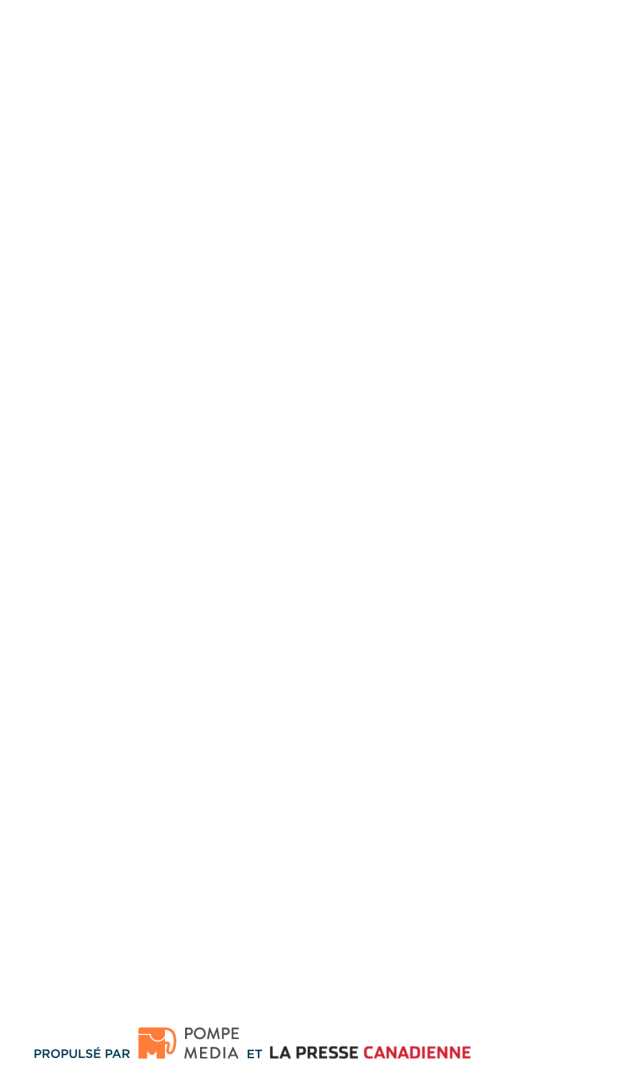
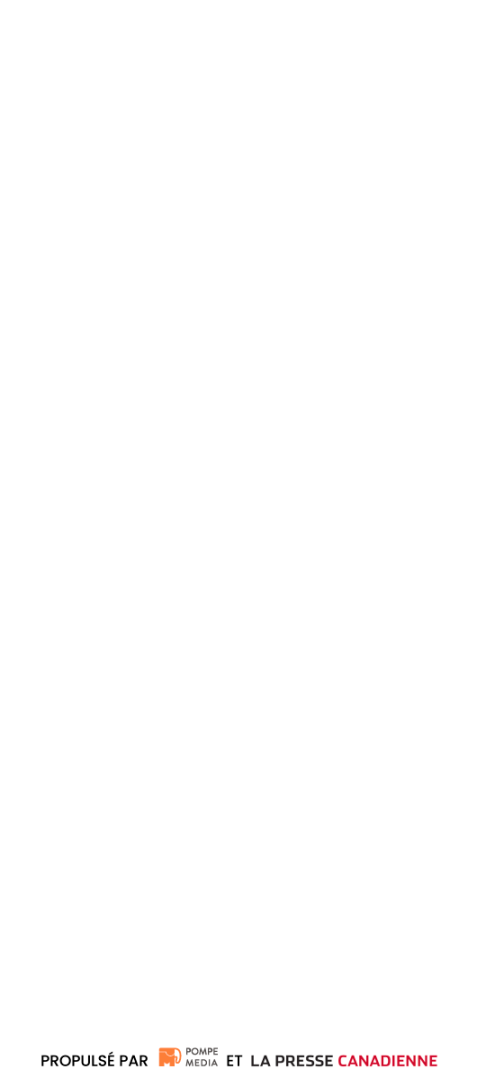
Updating PMP design

Changed region(s): [[0.0625, 0.9472, 0.9062, 1.0]]

diff --git a/src/App.js b/src/App.js
@@ -161,7 +161,7 @@ class App extends Component {
       category: category
     })
 
-    if(this.state.design.name !== 'PMP' && this.state.design.name !== 'SHD') {
+    if(this.state.design.name !== 'PMP' && this.state.design.name !== 'SHD' && this.state.design.name !== 'PHD') {
       // prepare category background url
       cache.getImage(this.state.backgrounds[this.state.category]).then(url =>
         this.setState({
@@ -184,8 +184,8 @@ class App extends Component {
           return record.media || recordAge.asHours() < 6
         })
 
-      // If the current design is FCL oor SHD, we only display records with a horizontal media
-      if (this.state.design.name === 'FCL' || this.state.design.name === 'SHD') {
+      // If the current design is FCL or SHD/PHD, we only display records with a horizontal media
+      if (this.state.design.name === 'FCL' || this.state.design.name === 'SHD' || this.state.design.name === 'PHD') {
         records = records.filter(record => record.media ? record.media_width > record.media_height : true)
       }
 
@@ -342,11 +342,11 @@ class App extends Component {
             <PMPHeadlineBar />
           }
           {
-            this.state.design.name === 'SHD' &&
+            (this.state.design.name === 'SHD' || this.state.design.name === 'PHD') &&
             <SHDHeadlineBar category={ this.state.category } />
           }
           {
-            this.state.design.name !== 'SHD' &&
+            (this.state.design.name !== 'SHD' || this.state.design.name !== 'PHP') &&
             <TimeDisplay design={ this.state.design.name }/>
           }
           <UpdateCaption

diff --git a/src/style/App.scss b/src/style/App.scss
@@ -46,7 +46,8 @@ main {
     height: 1920px;
   }
 
-  &.SHD {
+  &.SHD,
+  &.PHD {
     width: 1920px;
     height: 1080px;
 
@@ -111,7 +112,7 @@ main {
   }
 
   &.PMP {
-    width: 640px;
+    width: 480px;
     height: 1080px;
 
     background-image: url("../assets/images/PMP-Background.png");
@@ -119,23 +120,41 @@ main {
     background-position: center center;
     background-repeat: no-repeat;
 
+    background-color: #FFF;
+
     .headline-bar {
       box-sizing: border-box;
 
       position: absolute;
-      top: 550px;
-      left: 35px;
+      top: 690px;
+      left: 0px;
 
-      width: 570px;
+      width: 480px;
       height: 60px;
-      padding: 2px 8px;
+      padding: 2px 15px;
 
-      background-color: #0061a3;
+      background-color: #F38000;
 
-      font-size: 35pt;
+      font-size: 30pt;
       font-weight: 700;
       line-height: 60px;
       text-transform: uppercase;
+    }
+
+    &:before {
+      content: "";
+      display: block;
+      position: absolute;
+      left: 90px;
+      top: 45px;
+
+      width: 300px;
+      height: 150px;
+
+      background-image: url("../assets/images/onthego.dark.png");
+      background-size: contain;
+      background-position: center center;
+      background-repeat: no-repeat;
     }
   }
 }

diff --git a/src/style/scenes/_Content.scss b/src/style/scenes/_Content.scss
@@ -153,7 +153,8 @@
     }
   }
 
-  &.SHD {
+  &.SHD,
+  &.PHD {
      width: 1920px;
      height: 1080px;
 
@@ -255,17 +256,17 @@
    }
 
   &.PMP {
-    width: 570px;
-    height: 945px;
+    width: 480px;
+    height: 830px;
 
-    top: 35px;
-    left: 35px;
+    top: 250px;
+    left: 0px;
 
     transition-property: opacity;
 
     .image {
-      width: 570px;
-      height: 515px;
+      width: 480px;
+      height: 440px;
     }
 
     .ribbon-background {
@@ -273,15 +274,14 @@
     }
 
     .headline {
-
       color: #444;
 
       &.ribbon {
-        height: 345px;
-        margin: 60px 0 35px;
+        height: 280px;
+        margin: 60px 15px 0;
 
         font-size: 30pt;
-        line-height: 345px;
+        line-height: 280px;
 
         &.long-text {
           font-size: 20pt;

diff --git a/src/style/scenes/_TimeDisplay.scss b/src/style/scenes/_TimeDisplay.scss
@@ -25,12 +25,12 @@ time {
   }
 
   &.PMP {
-    top: 551px;
-    right: 43px;
+    top: 690px;
+    right: 15px;
 
     color: #FFF;
 
-    font-size: 35pt;
+    font-size: 30pt;
     font-weight: 700;
     line-height: 60px;
   }
